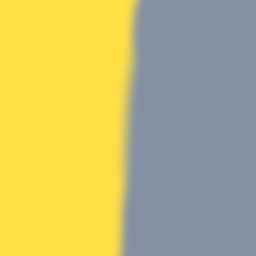
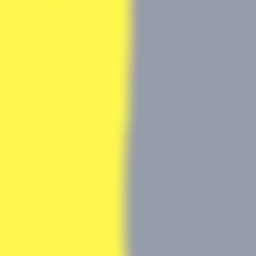
Sun and Moon code

diff --git a/PA_AND_WDS/PA_AND_WDS/main.cpp b/PA_AND_WDS/PA_AND_WDS/main.cpp
@@ -48,23 +48,36 @@ int main()
 	std::string modelFlowerPath = "models/Flower/flower.gltf";
 	std::string modelHivePath = "models/Hive/hive.gltf";
 	std::string modelTreePath = "models/Tree/tree.gltf";
+	std::string modelSunAndMoonPath = "models/SunAndMoon/SunAndMoon.gltf";
 	
 	Model modelBee(modelBeePath.c_str());
 	Model modelFlower(modelFlowerPath.c_str());
 	Model modelHive(modelHivePath.c_str());
 	Model modelTree(modelTreePath.c_str());
+	Model modelSunAndMoon(modelSunAndMoonPath.c_str());
 
 	glm::vec3 beeTrajectory = glm::vec3(0.0f, 0.0f, 0.0f);
 	glm::quat beeRotation = glm::quat(1.0f, 0.0f, 0.0f, 0.0f);
+	glm::quat sunAndMoonRotation = glm::quat(1.0f, 0.0f, 0.0f, 0.0f);
 	
 	float XDegrees = -0.10f, YDegrees = 0.10f, ZDegrees = -20.0f;
+
 	beeRotation = glm::rotate(beeRotation, XDegrees, glm::vec3(1.0f, 0.0f, 0.0f));		//X
 	beeRotation = glm::rotate(beeRotation, YDegrees, glm::vec3(0.0f, 1.0f, 0.0f));		//Y
 	beeRotation = glm::rotate(beeRotation, ZDegrees, glm::vec3(0.0f, 0.0f, 1.0f));		//Z
 
+	sunAndMoonRotation = glm::rotate(sunAndMoonRotation, 0.0f, glm::vec3(1.0f, 0.0f, 0.0f));		//X
+	sunAndMoonRotation = glm::rotate(sunAndMoonRotation, 0.0f, glm::vec3(0.0f, 1.0f, 0.0f));		//Y
+	sunAndMoonRotation = glm::rotate(sunAndMoonRotation, 0.0f, glm::vec3(0.0f, 0.0f, 1.0f));		//Z
+
 	float counter = 0.0f;
+	float timeOfDay = 0.0f;
 	float multiplier = 10.0f;
 	float ammountOfFlowers = 9;
+
+	float redSaturation   = 2.0f;
+	float greenSaturation = 2.0f;
+	float blueSaturation  = 2.0f;
 
 	std::vector<glm::vec3> flowersPositions;
 
@@ -72,7 +85,7 @@ int main()
 	std::mt19937 gen(rd());
 	std::uniform_int_distribution<> distr(-30, 30);
 
-	for (int i = 0;i < ammountOfFlowers;i++) {
+	for (int i = 0; i < ammountOfFlowers; i++) {
 		flowersPositions.push_back(glm::vec3((float)distr(gen),30.0f,(float)distr(gen)));
 	}
 
@@ -88,11 +101,25 @@ int main()
 
 		modelBee.Draw(shaderProgram, camera, beeTrajectory, beeRotation, glm::vec3(0.25f,0.25f,0.25f));
 		modelFlower.Draw(shaderProgram, camera, glm::vec3(30.0f, 30.0f, 0.0f));
-		for (int i = 0; i < flowersPositions.size();i++) {
+		for (int i = 0; i < flowersPositions.size(); i++) {
 			modelFlower.Draw(shaderProgram, camera, flowersPositions[i]);
 		}
 		modelHive.Draw(shaderProgram, camera, glm::vec3(-1.7f, 0.0f, 0.0f));
 		modelTree.Draw(shaderProgram, camera, glm::vec3(-5.0f, 31.0f, 18.0f), glm::quat(1.0f, 0.0f, 0.0f, 0.0f), glm::vec3(7.0f, 7.0f, 7.0f));
+		modelSunAndMoon.Draw(shaderProgram, camera, glm::vec3(0.0f, 0.0f, 0.0f), sunAndMoonRotation, glm::vec3(10.0f, 20.0f, 10.0f));
+
+		//Day Night cycle
+		XDegrees = 0.0000f * multiplier;
+		YDegrees = 0.0000f * multiplier;
+		ZDegrees = 0.0001f * multiplier;
+		sunAndMoonRotation = glm::rotate(sunAndMoonRotation, XDegrees, glm::vec3(1.0f, 0.0f, 0.0f));		//X
+		sunAndMoonRotation = glm::rotate(sunAndMoonRotation, YDegrees, glm::vec3(0.0f, 1.0f, 0.0f));		//Y
+		sunAndMoonRotation = glm::rotate(sunAndMoonRotation, ZDegrees, glm::vec3(0.0f, 0.0f, 1.0f));		//Z
+		/*redSaturation -= 0.00010f * multiplier;
+		greenSaturation -= 0.00005f * multiplier;
+		blueSaturation  -= 0.00001f * multiplier;*/
+		lightColor = glm::vec4(redSaturation, greenSaturation, blueSaturation, 1.0f);
+		glUniform4f(glGetUniformLocation(shaderProgram.ID, "lightColor"), lightColor.x, lightColor.y, lightColor.z, lightColor.w);
 		
 		if (counter < 3000.0f / multiplier) {
 			if (counter >= 2900.0f / multiplier && counter < 3000.0f / multiplier) {
